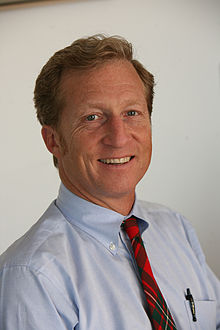
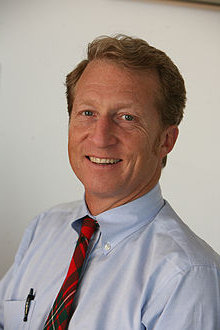
removed dupes from css and fixed profile image

diff --git a/html/style/main.css b/html/style/main.css
@@ -51,7 +51,6 @@ div#heading-wrapper {
     float: left;
     margin-top: 30px;
     text-align: center;
-    width: 570px;
     width: 920px;
     }
 
@@ -143,18 +142,18 @@ nav ul li.selected {
 
 nav ul li:hover {
     background-color: #92EC4B;
-    color: #333;
+    color: #333333;
     cursor: pointer;
     }
 
 nav ul li:active {
-    background-color: white;
-    color: black;
+    background-color: #ffffff;
+    color: #000000;
     }
 
 div#search {
     background-color: #EC6B40;
-    color: #eee;
+    color: #eeeeee;
     float: right;
     height: 30px;
     padding: 10px 0;
@@ -168,7 +167,7 @@ div#search form {
     }
 
 main {
-    background-color: #fff;
+    background-color: #ffffff;
     float: left;
     width: 920px;
     }
@@ -217,14 +216,13 @@ div#oppose {
     }
 
 div#oppose:hover {
-    background-color: green;
     background-color: #63a033;
-    color: #ddd;
+    color: #dddddd;
     cursor: pointer;
     }
 
 div#oppose h6 a {
-    color: white;
+    color: #ffffff;
     font-family: sans-serif;
     font-size: 22px;
     font-weight: normal;
@@ -237,7 +235,6 @@ article p {
     }
 
 figcaption {
-//    border: 1px solid #ddd;
     font-family: serif;
     font-size: 14px;
     font-style: italic;
@@ -266,7 +263,7 @@ figure#steyer img {
     }
 
 div#quote {
-    background-color: #ddd;;
+    background-color: #dddddd;
     float: right;
     width: 200px;
     }
@@ -309,7 +306,7 @@ img.separator {
     }
 
 aside {
-    border-left: 1px dashed #eee;
+    border-left: 1px dashed #eeeeee;
     float: left;
     padding: 30px;
     width: 285px;
@@ -317,7 +314,7 @@ aside {
 
 aside h5 {
     background-color: #63a033;
-    color: #eee;
+    color: #eeeeee;
     font-family: sans-serif;
     font-size: 20px;
     font-weight: normal;
@@ -332,7 +329,7 @@ aside ul {
     }
 
 aside ul li {
-    border-bottom: 1px dashed #aaa;
+    border-bottom: 1px dashed #aaaaaa;
     float: left;
     margin-top: 5px;
     margin-bottom: 0;
@@ -340,7 +337,7 @@ aside ul li {
     }
 
 aside ul.articles li a {
-    color: #333;
+    color: #333333;
     display: block;
     float: left;
     font-family: sans-serif;
@@ -359,7 +356,7 @@ aside ul.articles li {
 
 aside ul.articles li:hover {
     background-color: #92EC4B;
-    color: #333;
+    color: #333333;
     cursor: pointer;
     }
 
@@ -373,7 +370,7 @@ aside ul.years {
 
 aside ul.years li {
     background-color: #3C601F;
-    color: white;
+    color: #ffffff;
     float: left;
     font-family: sans-serif;
     font-size: 18px;
@@ -384,12 +381,12 @@ aside ul.years li {
     }
 
 aside ul.years li ul {
-    background-color: white;
+    background-color: #ffffff;
     }
 
 aside ul.years li ul li {
     display: none;
-    background-color: white;
+    background-color: #ffffff;
     }
 
 ul.years li:hover {
@@ -418,14 +415,14 @@ div#search input#search-btn {
 
 div#search input#search-btn {
     background-color: #3C601F;
-    color: #eee;
+    color: #eeeeee;
     cursor: pointer;
     width: 68px;
     }
 
 div#search input#search-btn:hover {
     background-color: #92EC4B;
-    color: #333;
+    color: #333333;
     }
 
 aside#sign-up input#name,
@@ -457,14 +454,13 @@ aside#sign-up input#email {
 
 aside#sign-up input#email:hover {
     background-color: #92EC4B;
-    color: #eee;
-    color: #333;
+    color: #333333;
     cursor: pointer;
     }
 
 aside#sign-up input#email:active {
-    background-color: white;
-    color: black;
+    background-color: #ffffff;
+    color: #000000;
     }
 
 footer {
@@ -482,7 +478,6 @@ footer div#footer-wrapper {
     }
 
 footer section {
-    background-color: #8eb7d7;
     background-color: #392721;
     border-radius: 50%;
     float: left;
@@ -493,10 +488,10 @@ footer section {
     }
 
 div.sphere {
-    background-color: white;
+    background-color: #ffffff;
     background-image: url('../images/bg-lighter-background.png');
     background-repeat: no-repeat;
-    border: 1px solid #333;
+    border: 1px solid #333333;
     border-radius: 50%;
     height: 30px;
     margin: 15px auto 0;
@@ -514,9 +509,8 @@ footer section:hover > div.sphere {
 
 footer section:hover h6 a,
 footer section:hover h6 a span {
-    color: #B95432;
     color: #392721;
-    text-shadow: 1px 1px 1px #aaa;
+    text-shadow: 1px 1px 1px #aaaaaa;
     }
 
 footer section:last-child {
@@ -531,19 +525,17 @@ footer section h6 {
     }
 
 footer section h6 span {
-    color: #eee;
+    color: #eeeeee;
     font-size: 23px;
     font-weight: bold;
     letter-spacing: 1px;
     text-decoration: underline;
-    text-shadow: 1px 1px 1px #000;
+    text-shadow: 1px 1px 1px #000000;
     }
 
 footer section h6 a {
     display: block;
-    color: #ddd;
-    color: #B95432;
-    color: #ddd;
+    color: #dddddd;
     text-decoration: none;
     }
 
